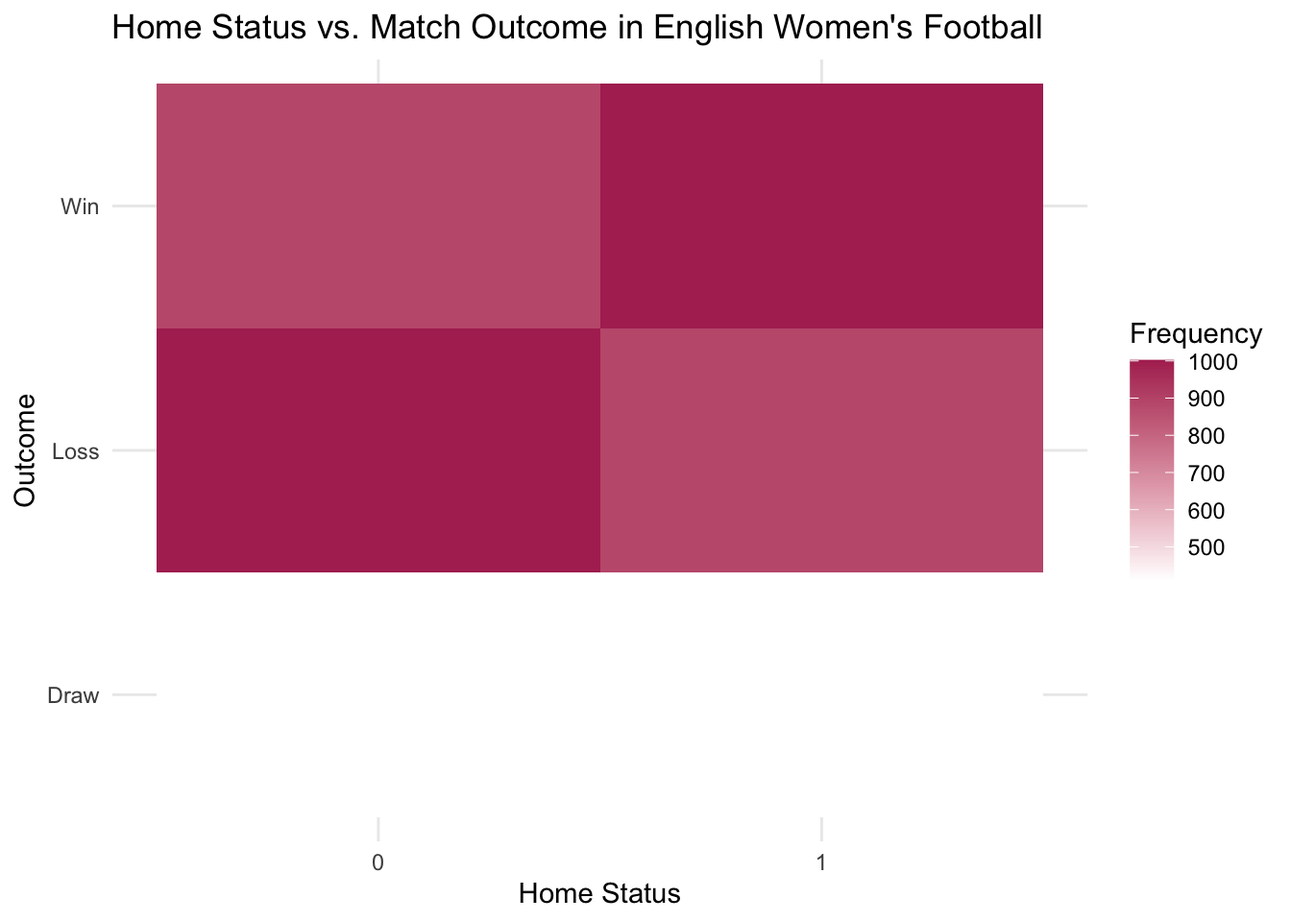
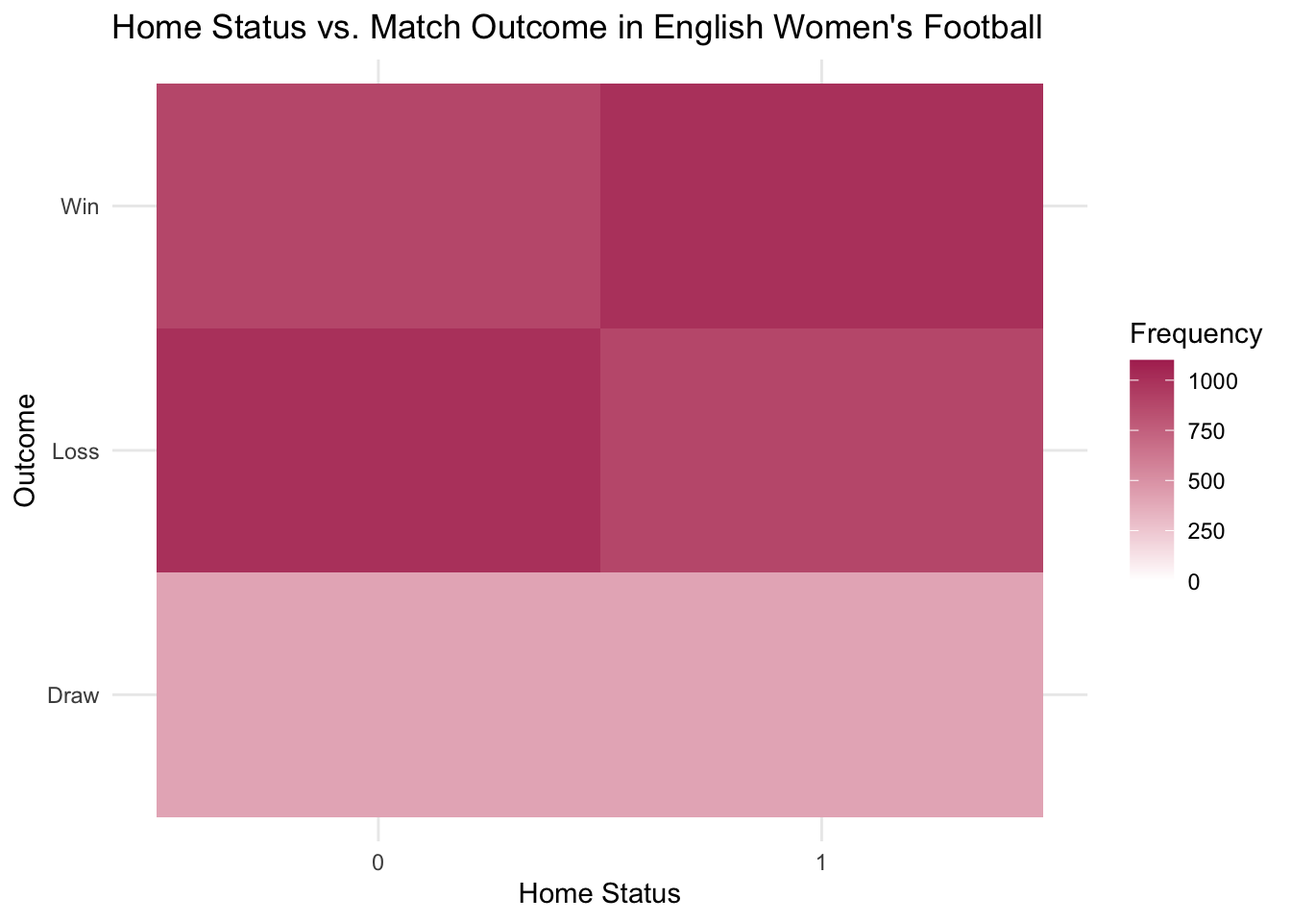
ewf edits

Changed region(s): [[0.0938, 0.5938, 0.8125, 0.9062], [0.9062, 0.375, 0.9688, 0.5938]]

diff --git a/docs/miniproject3.html b/docs/miniproject3.html
@@ -296,7 +296,7 @@ pre > code.sourceCode > span > a:first-child::before { text-decoration: underlin
 <span id="cb6-3"><a href="#cb6-3" aria-hidden="true" tabindex="-1"></a></span>
 <span id="cb6-4"><a href="#cb6-4" aria-hidden="true" tabindex="-1"></a><span class="fu">ggplot</span>(df, <span class="fu">aes</span>(<span class="at">x =</span> home, <span class="at">y =</span> result, <span class="at">fill =</span> frequency)) <span class="sc">+</span></span>
 <span id="cb6-5"><a href="#cb6-5" aria-hidden="true" tabindex="-1"></a>  <span class="fu">geom_tile</span>() <span class="sc">+</span></span>
-<span id="cb6-6"><a href="#cb6-6" aria-hidden="true" tabindex="-1"></a>  <span class="fu">scale_fill_gradient</span>(<span class="at">low =</span> <span class="st">"white"</span>, <span class="at">high =</span> <span class="st">"maroon"</span>) <span class="sc">+</span></span>
+<span id="cb6-6"><a href="#cb6-6" aria-hidden="true" tabindex="-1"></a>  <span class="fu">scale_fill_gradient</span>(<span class="at">low =</span> <span class="st">"white"</span>, <span class="at">high =</span> <span class="st">"maroon"</span>, <span class="at">limits =</span> <span class="fu">c</span>(<span class="dv">0</span>, <span class="dv">1100</span>)) <span class="sc">+</span></span>
 <span id="cb6-7"><a href="#cb6-7" aria-hidden="true" tabindex="-1"></a>  <span class="fu">labs</span>(<span class="at">title =</span> <span class="st">"Home Status vs. Match Outcome in English Women's Football"</span>,</span>
 <span id="cb6-8"><a href="#cb6-8" aria-hidden="true" tabindex="-1"></a>       <span class="at">x =</span> <span class="st">"Home Status"</span>,</span>
 <span id="cb6-9"><a href="#cb6-9" aria-hidden="true" tabindex="-1"></a>       <span class="at">y =</span> <span class="st">"Outcome"</span>,</span>
@@ -310,7 +310,7 @@ pre > code.sourceCode > span > a:first-child::before { text-decoration: underlin
 </div>
 </div>
 </div>
-<p>This preliminarily suggests that there might be a home advantage.</p>
+<p>This preliminary figure suggests that there might be a home advantage.</p>
 </section>
 <section id="observed-data" class="level2">
 <h2 class="anchored" data-anchor-id="observed-data">Observed Data</h2>
@@ -319,15 +319,12 @@ pre > code.sourceCode > span > a:first-child::before { text-decoration: underlin
 <div class="sourceCode cell-code" id="cb7"><pre class="sourceCode r code-with-copy"><code class="sourceCode r"><span id="cb7-1"><a href="#cb7-1" aria-hidden="true" tabindex="-1"></a>ewf<span class="ot">&lt;-</span> ewf_appearances <span class="sc">|&gt;</span></span>
 <span id="cb7-2"><a href="#cb7-2" aria-hidden="true" tabindex="-1"></a>  <span class="fu">select</span>(home_team, result)</span>
 <span id="cb7-3"><a href="#cb7-3" aria-hidden="true" tabindex="-1"></a></span>
-<span id="cb7-4"><a href="#cb7-4" aria-hidden="true" tabindex="-1"></a>ewf<span class="sc">$</span>result<span class="ot">&lt;-</span> <span class="fu">as.factor</span>(ewf<span class="sc">$</span>result)</span>
-<span id="cb7-5"><a href="#cb7-5" aria-hidden="true" tabindex="-1"></a>ewf<span class="sc">$</span>result <span class="ot">&lt;-</span> <span class="fu">fct_relevel</span>(ewf<span class="sc">$</span>result, <span class="st">"Win"</span>, <span class="st">"Draw"</span>, <span class="st">"Loss"</span>)</span>
-<span id="cb7-6"><a href="#cb7-6" aria-hidden="true" tabindex="-1"></a></span>
-<span id="cb7-7"><a href="#cb7-7" aria-hidden="true" tabindex="-1"></a>ewf <span class="sc">|&gt;</span></span>
-<span id="cb7-8"><a href="#cb7-8" aria-hidden="true" tabindex="-1"></a>  <span class="fu">ggplot</span>(<span class="fu">aes</span>(<span class="at">x =</span> <span class="fu">as.factor</span>(home_team), <span class="at">fill =</span> result)) <span class="sc">+</span></span>
-<span id="cb7-9"><a href="#cb7-9" aria-hidden="true" tabindex="-1"></a>  <span class="fu">geom_bar</span>(<span class="at">position =</span> <span class="st">"fill"</span>) <span class="sc">+</span></span>
-<span id="cb7-10"><a href="#cb7-10" aria-hidden="true" tabindex="-1"></a>  <span class="fu">labs</span>(<span class="at">x =</span> <span class="st">"Home Status (1 = Home, 0 = Away)"</span>, <span class="at">y =</span> <span class="st">"Proportion"</span>, <span class="at">fill =</span> <span class="st">"Outcome"</span>) <span class="sc">+</span></span>
-<span id="cb7-11"><a href="#cb7-11" aria-hidden="true" tabindex="-1"></a>  <span class="fu">theme_minimal</span>() <span class="sc">+</span></span>
-<span id="cb7-12"><a href="#cb7-12" aria-hidden="true" tabindex="-1"></a>  <span class="fu">ggtitle</span>(<span class="st">"Home Status vs. Match Result in English Women's Football"</span>)</span></code><button title="Copy to Clipboard" class="code-copy-button"><i class="bi"></i></button></pre></div>
+<span id="cb7-4"><a href="#cb7-4" aria-hidden="true" tabindex="-1"></a>ewf <span class="sc">|&gt;</span></span>
+<span id="cb7-5"><a href="#cb7-5" aria-hidden="true" tabindex="-1"></a>  <span class="fu">ggplot</span>(<span class="fu">aes</span>(<span class="at">x =</span> <span class="fu">as.factor</span>(home_team), <span class="at">fill =</span> result)) <span class="sc">+</span></span>
+<span id="cb7-6"><a href="#cb7-6" aria-hidden="true" tabindex="-1"></a>  <span class="fu">geom_bar</span>(<span class="at">position =</span> <span class="st">"fill"</span>) <span class="sc">+</span></span>
+<span id="cb7-7"><a href="#cb7-7" aria-hidden="true" tabindex="-1"></a>  <span class="fu">labs</span>(<span class="at">x =</span> <span class="st">"Home Status (1 = Home, 0 = Away)"</span>, <span class="at">y =</span> <span class="st">"Proportion"</span>, <span class="at">fill =</span> <span class="st">"Outcome"</span>) <span class="sc">+</span></span>
+<span id="cb7-8"><a href="#cb7-8" aria-hidden="true" tabindex="-1"></a>  <span class="fu">theme_minimal</span>() <span class="sc">+</span></span>
+<span id="cb7-9"><a href="#cb7-9" aria-hidden="true" tabindex="-1"></a>  <span class="fu">ggtitle</span>(<span class="st">"Home Status vs. Match Result in English Women's Football"</span>)</span></code><button title="Copy to Clipboard" class="code-copy-button"><i class="bi"></i></button></pre></div>
 <div class="cell-output-display">
 <div>
 <figure class="figure">
@@ -345,19 +342,24 @@ pre > code.sourceCode > span > a:first-child::before { text-decoration: underlin
 <div class="sourceCode cell-code" id="cb8"><pre class="sourceCode r code-with-copy"><code class="sourceCode r"><span id="cb8-1"><a href="#cb8-1" aria-hidden="true" tabindex="-1"></a><span class="fu">set.seed</span>(<span class="dv">3</span>)</span>
 <span id="cb8-2"><a href="#cb8-2" aria-hidden="true" tabindex="-1"></a>permutation <span class="ot">&lt;-</span> <span class="cf">function</span>(dataset, perm_n) {</span>
 <span id="cb8-3"><a href="#cb8-3" aria-hidden="true" tabindex="-1"></a>  dataset <span class="sc">|&gt;</span></span>
-<span id="cb8-4"><a href="#cb8-4" aria-hidden="true" tabindex="-1"></a>    <span class="fu">mutate</span>(<span class="at">perm_result =</span> <span class="fu">sample</span>(result, <span class="at">replace=</span><span class="cn">FALSE</span>), <span class="at">perm_n =</span> perm_n)</span>
-<span id="cb8-5"><a href="#cb8-5" aria-hidden="true" tabindex="-1"></a>}</span>
-<span id="cb8-6"><a href="#cb8-6" aria-hidden="true" tabindex="-1"></a></span>
-<span id="cb8-7"><a href="#cb8-7" aria-hidden="true" tabindex="-1"></a>shuffles <span class="ot">&lt;-</span> <span class="fu">map_dfr</span>(<span class="dv">1</span><span class="sc">:</span><span class="dv">20</span>, <span class="sc">~</span> <span class="fu">permutation</span>(ewf, .x))</span></code><button title="Copy to Clipboard" class="code-copy-button"><i class="bi"></i></button></pre></div>
+<span id="cb8-4"><a href="#cb8-4" aria-hidden="true" tabindex="-1"></a>    <span class="fu">group_by</span>(match_name) <span class="sc">|&gt;</span></span>
+<span id="cb8-5"><a href="#cb8-5" aria-hidden="true" tabindex="-1"></a>    <span class="fu">mutate</span>(<span class="at">perm_home_team =</span> <span class="fu">sample</span>(home_team, <span class="at">replace=</span><span class="cn">FALSE</span>)) <span class="sc">|&gt;</span></span>
+<span id="cb8-6"><a href="#cb8-6" aria-hidden="true" tabindex="-1"></a>    <span class="fu">ungroup</span>() <span class="sc">|&gt;</span></span>
+<span id="cb8-7"><a href="#cb8-7" aria-hidden="true" tabindex="-1"></a>    <span class="fu">mutate</span>(<span class="at">perm_n =</span> perm_n)</span>
+<span id="cb8-8"><a href="#cb8-8" aria-hidden="true" tabindex="-1"></a>}</span>
+<span id="cb8-9"><a href="#cb8-9" aria-hidden="true" tabindex="-1"></a></span>
+<span id="cb8-10"><a href="#cb8-10" aria-hidden="true" tabindex="-1"></a>shuffles <span class="ot">&lt;-</span> <span class="fu">map_dfr</span>(<span class="dv">1</span><span class="sc">:</span><span class="dv">20</span>, <span class="sc">~</span> <span class="fu">permutation</span>(ewf_appearances, .x))</span></code><button title="Copy to Clipboard" class="code-copy-button"><i class="bi"></i></button></pre></div>
 </div>
 <div class="cell">
 <div class="sourceCode cell-code" id="cb9"><pre class="sourceCode r code-with-copy"><code class="sourceCode r"><span id="cb9-1"><a href="#cb9-1" aria-hidden="true" tabindex="-1"></a>shuffles <span class="sc">|&gt;</span></span>
-<span id="cb9-2"><a href="#cb9-2" aria-hidden="true" tabindex="-1"></a>  <span class="fu">ggplot</span>(<span class="fu">aes</span>(<span class="at">x =</span> <span class="fu">as.factor</span>(home_team), <span class="at">fill =</span> perm_result)) <span class="sc">+</span></span>
+<span id="cb9-2"><a href="#cb9-2" aria-hidden="true" tabindex="-1"></a>  <span class="fu">ggplot</span>(<span class="fu">aes</span>(<span class="at">x =</span> <span class="fu">as.factor</span>(perm_home_team), <span class="at">fill =</span> result)) <span class="sc">+</span></span>
 <span id="cb9-3"><a href="#cb9-3" aria-hidden="true" tabindex="-1"></a>  <span class="fu">geom_bar</span>(<span class="at">position =</span> <span class="st">"fill"</span>) <span class="sc">+</span></span>
-<span id="cb9-4"><a href="#cb9-4" aria-hidden="true" tabindex="-1"></a>  <span class="fu">labs</span>(<span class="at">x =</span> <span class="st">"Home Status (1 = Home, 0 = Away)"</span>, <span class="at">y =</span> <span class="st">"Proportion"</span>, <span class="at">fill =</span> <span class="st">"Result"</span>) <span class="sc">+</span></span>
-<span id="cb9-5"><a href="#cb9-5" aria-hidden="true" tabindex="-1"></a>  <span class="fu">ggtitle</span>(<span class="st">"Home Status vs. Match Result in English Women's Football"</span>) <span class="sc">+</span></span>
-<span id="cb9-6"><a href="#cb9-6" aria-hidden="true" tabindex="-1"></a>  <span class="fu">theme_minimal</span>() <span class="sc">+</span></span>
-<span id="cb9-7"><a href="#cb9-7" aria-hidden="true" tabindex="-1"></a>  <span class="fu">facet_wrap</span>(<span class="sc">~</span> perm_n, <span class="at">ncol =</span> <span class="dv">4</span>)</span></code><button title="Copy to Clipboard" class="code-copy-button"><i class="bi"></i></button></pre></div>
+<span id="cb9-4"><a href="#cb9-4" aria-hidden="true" tabindex="-1"></a>  <span class="fu">labs</span>(<span class="at">x =</span> <span class="st">"Home Status (1 = Home, 0 = Away)"</span>,</span>
+<span id="cb9-5"><a href="#cb9-5" aria-hidden="true" tabindex="-1"></a>       <span class="at">y =</span> <span class="st">"Proportion"</span>,</span>
+<span id="cb9-6"><a href="#cb9-6" aria-hidden="true" tabindex="-1"></a>       <span class="at">fill =</span> <span class="st">"Result"</span>) <span class="sc">+</span></span>
+<span id="cb9-7"><a href="#cb9-7" aria-hidden="true" tabindex="-1"></a>  <span class="fu">ggtitle</span>(<span class="st">"Home Status vs. Match Result in English Women's Football"</span>) <span class="sc">+</span></span>
+<span id="cb9-8"><a href="#cb9-8" aria-hidden="true" tabindex="-1"></a>  <span class="fu">theme_minimal</span>() <span class="sc">+</span></span>
+<span id="cb9-9"><a href="#cb9-9" aria-hidden="true" tabindex="-1"></a>  <span class="fu">facet_wrap</span>(<span class="sc">~</span> perm_n, <span class="at">ncol =</span> <span class="dv">4</span>)</span></code><button title="Copy to Clipboard" class="code-copy-button"><i class="bi"></i></button></pre></div>
 <div class="cell-output-display">
 <div>
 <figure class="figure">
@@ -374,30 +376,36 @@ pre > code.sourceCode > span > a:first-child::before { text-decoration: underlin
 <div class="cell">
 <div class="sourceCode cell-code" id="cb10"><pre class="sourceCode r code-with-copy"><code class="sourceCode r"><span id="cb10-1"><a href="#cb10-1" aria-hidden="true" tabindex="-1"></a><span class="fu">set.seed</span>(<span class="dv">3</span>)</span>
 <span id="cb10-2"><a href="#cb10-2" aria-hidden="true" tabindex="-1"></a></span>
-<span id="cb10-3"><a href="#cb10-3" aria-hidden="true" tabindex="-1"></a>observed <span class="ot">&lt;-</span> ewf <span class="sc">|&gt;</span></span>
-<span id="cb10-4"><a href="#cb10-4" aria-hidden="true" tabindex="-1"></a>  <span class="fu">mutate</span>(<span class="at">perm_result =</span> result, <span class="at">perm_n =</span> <span class="dv">0</span>)</span>
-<span id="cb10-5"><a href="#cb10-5" aria-hidden="true" tabindex="-1"></a></span>
-<span id="cb10-6"><a href="#cb10-6" aria-hidden="true" tabindex="-1"></a>random_lvls <span class="ot">&lt;-</span> <span class="fu">sample</span>(<span class="dv">0</span><span class="sc">:</span><span class="dv">20</span>)</span>
-<span id="cb10-7"><a href="#cb10-7" aria-hidden="true" tabindex="-1"></a></span>
-<span id="cb10-8"><a href="#cb10-8" aria-hidden="true" tabindex="-1"></a>plots<span class="ot">&lt;-</span> <span class="fu">rbind</span>(observed, shuffles) <span class="sc">|&gt;</span></span>
-<span id="cb10-9"><a href="#cb10-9" aria-hidden="true" tabindex="-1"></a>  <span class="fu">mutate</span>(<span class="at">perm_n =</span> <span class="fu">factor</span>(perm_n, <span class="at">levels =</span> random_lvls)) <span class="sc">|&gt;</span></span>
-<span id="cb10-10"><a href="#cb10-10" aria-hidden="true" tabindex="-1"></a>  <span class="fu">ggplot</span>(<span class="fu">aes</span>(<span class="at">x =</span> <span class="fu">as.factor</span>(home_team), <span class="at">fill =</span> perm_result)) <span class="sc">+</span></span>
-<span id="cb10-11"><a href="#cb10-11" aria-hidden="true" tabindex="-1"></a>  <span class="fu">geom_bar</span>(<span class="at">position =</span> <span class="st">"fill"</span>) <span class="sc">+</span></span>
-<span id="cb10-12"><a href="#cb10-12" aria-hidden="true" tabindex="-1"></a>  <span class="fu">labs</span>(<span class="at">x =</span> <span class="st">"Home Team (1 = Home, 0 = Away)"</span>, <span class="at">y =</span> <span class="st">"Proportion"</span>, <span class="at">fill =</span> <span class="st">"Result"</span>) <span class="sc">+</span></span>
-<span id="cb10-13"><a href="#cb10-13" aria-hidden="true" tabindex="-1"></a>  <span class="fu">ggtitle</span>(<span class="st">"Home Status vs. Match Result in English Women's Football"</span>) <span class="sc">+</span></span>
-<span id="cb10-14"><a href="#cb10-14" aria-hidden="true" tabindex="-1"></a>  <span class="fu">theme_minimal</span>() <span class="sc">+</span></span>
-<span id="cb10-15"><a href="#cb10-15" aria-hidden="true" tabindex="-1"></a>  <span class="fu">facet_wrap</span>(<span class="sc">~</span> perm_n, <span class="at">ncol =</span> <span class="dv">4</span>) <span class="sc">+</span></span>
-<span id="cb10-16"><a href="#cb10-16" aria-hidden="true" tabindex="-1"></a>  <span class="fu">theme</span>(</span>
-<span id="cb10-17"><a href="#cb10-17" aria-hidden="true" tabindex="-1"></a>    <span class="at">plot.title =</span> <span class="fu">element_text</span>(<span class="at">size =</span> <span class="dv">100</span>, <span class="at">face =</span> <span class="st">"bold"</span>),         </span>
-<span id="cb10-18"><a href="#cb10-18" aria-hidden="true" tabindex="-1"></a>    <span class="at">axis.title.x =</span> <span class="fu">element_text</span>(<span class="at">size =</span> <span class="dv">90</span>),                      </span>
-<span id="cb10-19"><a href="#cb10-19" aria-hidden="true" tabindex="-1"></a>    <span class="at">axis.title.y =</span> <span class="fu">element_text</span>(<span class="at">size =</span> <span class="dv">90</span>),                     </span>
-<span id="cb10-20"><a href="#cb10-20" aria-hidden="true" tabindex="-1"></a>    <span class="at">axis.text.x =</span> <span class="fu">element_text</span>(<span class="at">size =</span> <span class="dv">80</span>),                       </span>
-<span id="cb10-21"><a href="#cb10-21" aria-hidden="true" tabindex="-1"></a>    <span class="at">axis.text.y =</span> <span class="fu">element_text</span>(<span class="at">size =</span> <span class="dv">75</span>),                       </span>
-<span id="cb10-22"><a href="#cb10-22" aria-hidden="true" tabindex="-1"></a>    <span class="at">legend.title =</span> <span class="fu">element_text</span>(<span class="at">size =</span> <span class="dv">90</span>),                      </span>
-<span id="cb10-23"><a href="#cb10-23" aria-hidden="true" tabindex="-1"></a>    <span class="at">legend.text =</span> <span class="fu">element_text</span>(<span class="at">size =</span> <span class="dv">88</span>),                       </span>
-<span id="cb10-24"><a href="#cb10-24" aria-hidden="true" tabindex="-1"></a>    <span class="at">strip.text =</span> <span class="fu">element_text</span>(<span class="at">size =</span> <span class="dv">70</span>)                         </span>
-<span id="cb10-25"><a href="#cb10-25" aria-hidden="true" tabindex="-1"></a>  )</span>
-<span id="cb10-26"><a href="#cb10-26" aria-hidden="true" tabindex="-1"></a><span class="fu">print</span>(plots)</span></code><button title="Copy to Clipboard" class="code-copy-button"><i class="bi"></i></button></pre></div>
+<span id="cb10-3"><a href="#cb10-3" aria-hidden="true" tabindex="-1"></a>observed <span class="ot">&lt;-</span> ewf_appearances <span class="sc">|&gt;</span></span>
+<span id="cb10-4"><a href="#cb10-4" aria-hidden="true" tabindex="-1"></a>  <span class="fu">mutate</span>(<span class="at">perm_home_team =</span> home_team, <span class="at">perm_n =</span> <span class="dv">0</span>) <span class="sc">|&gt;</span></span>
+<span id="cb10-5"><a href="#cb10-5" aria-hidden="true" tabindex="-1"></a>  <span class="fu">select</span>(perm_home_team, result, perm_n)</span>
+<span id="cb10-6"><a href="#cb10-6" aria-hidden="true" tabindex="-1"></a></span>
+<span id="cb10-7"><a href="#cb10-7" aria-hidden="true" tabindex="-1"></a>shuffles <span class="ot">&lt;-</span> <span class="fu">map_dfr</span>(<span class="dv">1</span><span class="sc">:</span><span class="dv">20</span>, <span class="sc">~</span> <span class="fu">permutation</span>(ewf_appearances, .x))<span class="sc">|&gt;</span></span>
+<span id="cb10-8"><a href="#cb10-8" aria-hidden="true" tabindex="-1"></a>  <span class="fu">select</span>(perm_home_team, result, perm_n)</span>
+<span id="cb10-9"><a href="#cb10-9" aria-hidden="true" tabindex="-1"></a></span>
+<span id="cb10-10"><a href="#cb10-10" aria-hidden="true" tabindex="-1"></a>perm_combined <span class="ot">&lt;-</span> <span class="fu">rbind</span>(observed, shuffles)</span>
+<span id="cb10-11"><a href="#cb10-11" aria-hidden="true" tabindex="-1"></a>  </span>
+<span id="cb10-12"><a href="#cb10-12" aria-hidden="true" tabindex="-1"></a>plots<span class="ot">&lt;-</span> perm_combined <span class="sc">|&gt;</span></span>
+<span id="cb10-13"><a href="#cb10-13" aria-hidden="true" tabindex="-1"></a>  <span class="fu">mutate</span>(<span class="at">perm_n =</span> <span class="fu">factor</span>(perm_n, <span class="at">levels =</span> <span class="fu">c</span>(<span class="dv">0</span>, <span class="dv">1</span><span class="sc">:</span><span class="dv">20</span>))) <span class="sc">|&gt;</span></span>
+<span id="cb10-14"><a href="#cb10-14" aria-hidden="true" tabindex="-1"></a>  <span class="fu">ggplot</span>(<span class="fu">aes</span>(<span class="at">x =</span> <span class="fu">as.factor</span>(perm_home_team), <span class="at">fill =</span> result)) <span class="sc">+</span></span>
+<span id="cb10-15"><a href="#cb10-15" aria-hidden="true" tabindex="-1"></a>  <span class="fu">geom_bar</span>(<span class="at">position =</span> <span class="st">"fill"</span>) <span class="sc">+</span></span>
+<span id="cb10-16"><a href="#cb10-16" aria-hidden="true" tabindex="-1"></a>  <span class="fu">labs</span>(<span class="at">x =</span> <span class="st">"Home Team (1 = Home, 0 = Away)"</span>, </span>
+<span id="cb10-17"><a href="#cb10-17" aria-hidden="true" tabindex="-1"></a>       <span class="at">y =</span> <span class="st">"Proportion"</span>, </span>
+<span id="cb10-18"><a href="#cb10-18" aria-hidden="true" tabindex="-1"></a>       <span class="at">fill =</span> <span class="st">"Result"</span>) <span class="sc">+</span></span>
+<span id="cb10-19"><a href="#cb10-19" aria-hidden="true" tabindex="-1"></a>  <span class="fu">ggtitle</span>(<span class="st">"Home Status vs. Match Result in English Women's Football"</span>) <span class="sc">+</span></span>
+<span id="cb10-20"><a href="#cb10-20" aria-hidden="true" tabindex="-1"></a>  <span class="fu">theme_minimal</span>() <span class="sc">+</span></span>
+<span id="cb10-21"><a href="#cb10-21" aria-hidden="true" tabindex="-1"></a>  <span class="fu">facet_wrap</span>(<span class="sc">~</span> perm_n, <span class="at">ncol =</span> <span class="dv">4</span>) <span class="sc">+</span></span>
+<span id="cb10-22"><a href="#cb10-22" aria-hidden="true" tabindex="-1"></a>  <span class="fu">theme</span>(</span>
+<span id="cb10-23"><a href="#cb10-23" aria-hidden="true" tabindex="-1"></a>    <span class="at">plot.title =</span> <span class="fu">element_text</span>(<span class="at">size =</span> <span class="dv">100</span>, <span class="at">face =</span> <span class="st">"bold"</span>),         </span>
+<span id="cb10-24"><a href="#cb10-24" aria-hidden="true" tabindex="-1"></a>    <span class="at">axis.title.x =</span> <span class="fu">element_text</span>(<span class="at">size =</span> <span class="dv">90</span>),                      </span>
+<span id="cb10-25"><a href="#cb10-25" aria-hidden="true" tabindex="-1"></a>    <span class="at">axis.title.y =</span> <span class="fu">element_text</span>(<span class="at">size =</span> <span class="dv">90</span>),                     </span>
+<span id="cb10-26"><a href="#cb10-26" aria-hidden="true" tabindex="-1"></a>    <span class="at">axis.text.x =</span> <span class="fu">element_text</span>(<span class="at">size =</span> <span class="dv">80</span>),                       </span>
+<span id="cb10-27"><a href="#cb10-27" aria-hidden="true" tabindex="-1"></a>    <span class="at">axis.text.y =</span> <span class="fu">element_text</span>(<span class="at">size =</span> <span class="dv">75</span>),                       </span>
+<span id="cb10-28"><a href="#cb10-28" aria-hidden="true" tabindex="-1"></a>    <span class="at">legend.title =</span> <span class="fu">element_text</span>(<span class="at">size =</span> <span class="dv">90</span>),                      </span>
+<span id="cb10-29"><a href="#cb10-29" aria-hidden="true" tabindex="-1"></a>    <span class="at">legend.text =</span> <span class="fu">element_text</span>(<span class="at">size =</span> <span class="dv">88</span>),                       </span>
+<span id="cb10-30"><a href="#cb10-30" aria-hidden="true" tabindex="-1"></a>    <span class="at">strip.text =</span> <span class="fu">element_text</span>(<span class="at">size =</span> <span class="dv">70</span>)                         </span>
+<span id="cb10-31"><a href="#cb10-31" aria-hidden="true" tabindex="-1"></a>  )</span>
+<span id="cb10-32"><a href="#cb10-32" aria-hidden="true" tabindex="-1"></a><span class="fu">print</span>(plots)</span></code><button title="Copy to Clipboard" class="code-copy-button"><i class="bi"></i></button></pre></div>
 <div class="cell-output-display">
 <div>
 <figure class="figure">
@@ -406,12 +414,12 @@ pre > code.sourceCode > span > a:first-child::before { text-decoration: underlin
 </div>
 </div>
 </div>
-<p>While differences between the plots may not be immediately obvious, especially with the small plot size, upon closer inspection we can see that plot 0 has a higher proportion of wins at home than the other plots. This corresponds to the plot of the observed data. This plot is discernible from the permuted data, but only very slightly.</p>
+<p>Upon visual inspection of these plots, there is no single plot that stands out from the others as showing a much higher win proportion at home. There is some variability between the plots, with some showing a higher proportion of wins at home and others showing the opposite relationship. When we look closer, we can see that plot 0 has a higher proportion of wins at home than all of the other plots except number 2. Plot 0 corresponds to the observed data, while plot 2 represents permuted data. Since there is no obvious difference between these two plots, this implies that there is no significant home advantage in English professional women’s football.</p>
 </section>
 </section>
 <section id="conclusion" class="level1">
 <h1>Conclusion</h1>
-<p>To summarize, the research question I wanted to answer in my analysis was whether or not there exists a home advantage in professional women’s football in England. The data I used included all matches since 2011 for the top division, and all matches since 2014 for the second division. I started with some exploratory data analysis that visually suggested that there might be a home advantage. To test this further, I permuted the data 20 times to create 20 shuffled datasets. I created a stacked bar plot for each of these shuffled datasets and randomly placed the bar plot for the observed data among the permuted plots. Lastly, I inspected the plots placed side-by-side and determined that the observed data is only slightly discernible from the permuted data. This allowed me to conclude that using a visual inference lineup protocol only provides slight evidence against the null hypothesis that a team’s home status has no influence on the outcome of a match.</p>
+<p>To summarize, the research question I wanted to answer in my analysis was whether or not there exists a home advantage in professional women’s football in England. The data I used included all matches since 2011 for the top division, and all matches since 2014 for the second division. I started with some exploratory data analysis that visually suggested that there might be a home advantage. To test this further, I permuted the data 20 times to create 20 shuffled datasets. I created a stacked bar plot for each of these shuffled datasets and randomly placed the bar plot for the observed data among the permuted plots. Lastly, I inspected the plots placed side-by-side and determined that the observed data is not obviously discernible from the permuted data. Therefore, this visual inference lineup protocol does not provide sufficient evidence against the null hypothesis that a team’s home status has no influence on the outcome of a match.</p>
 
 
 </section>
